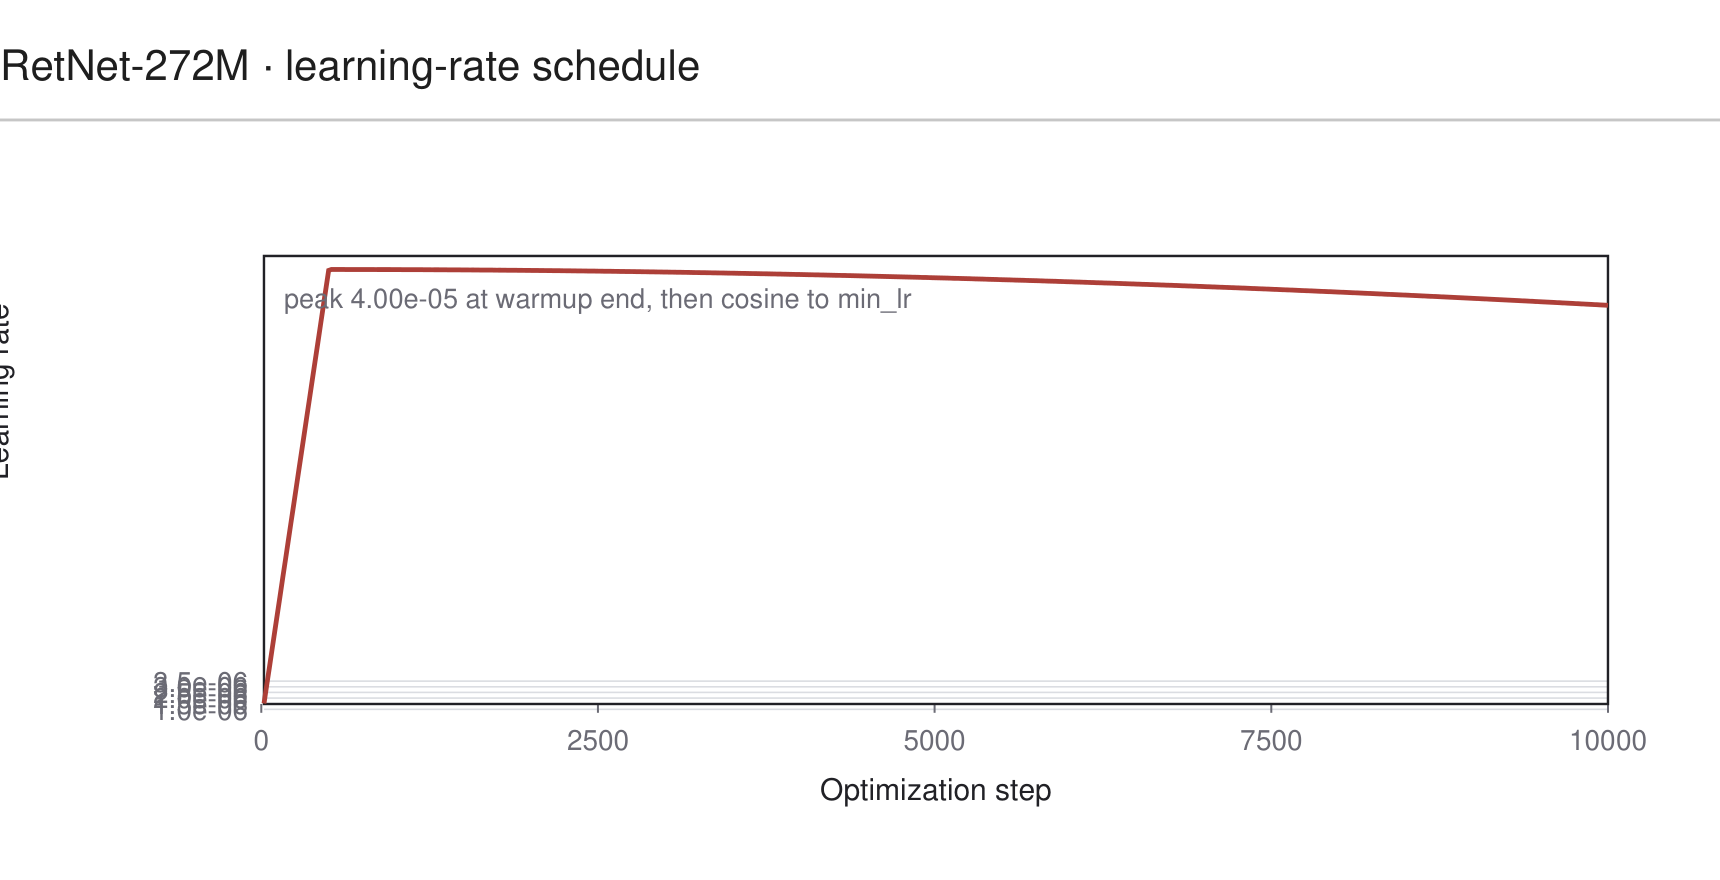
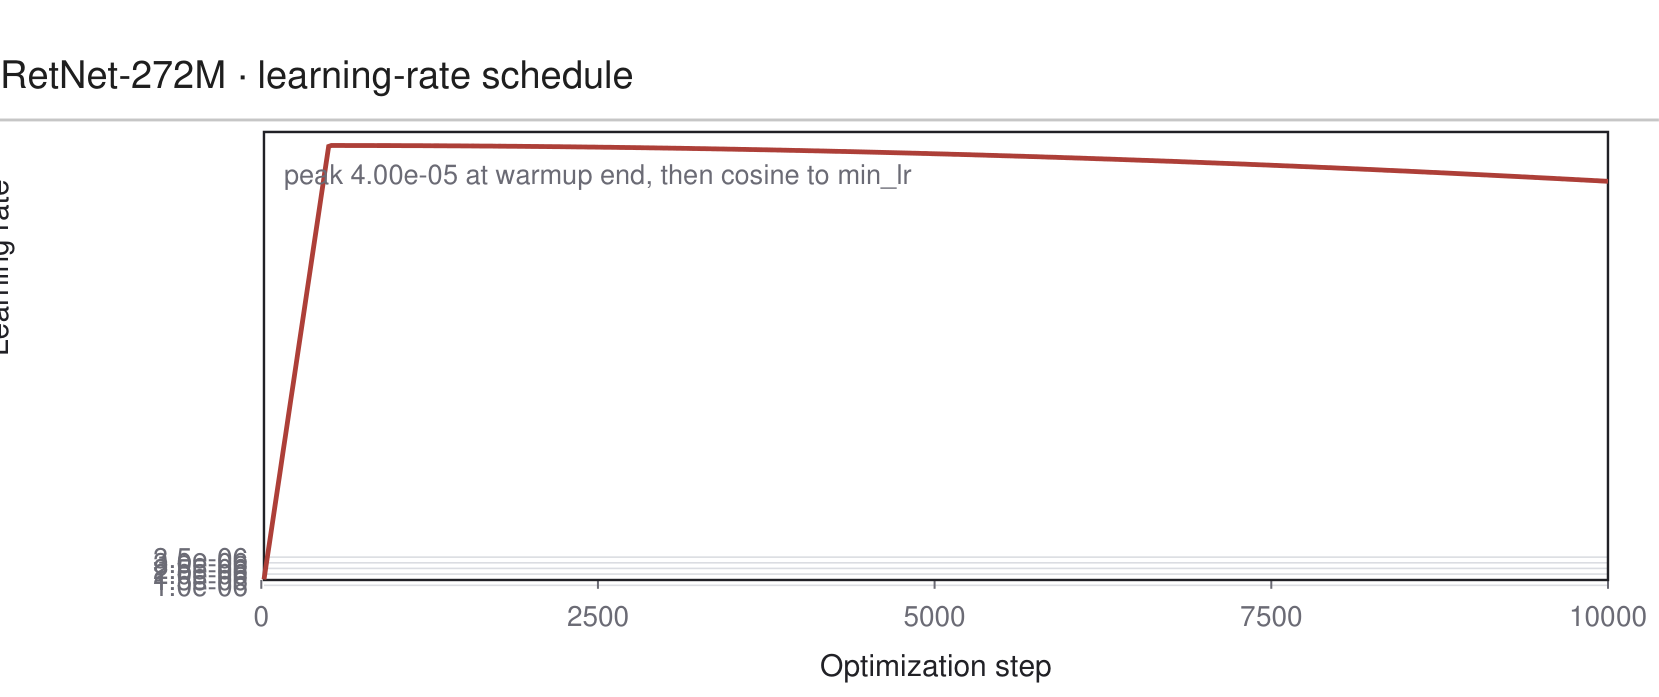
Tighten the figure title bands and add a plain-chat screenshot
The title band was sitting above the figure's own margins, leaving a wide dead
strip. export_figures.py now crops each figure to its real content bbox before
adding the band, so the title sits directly on top of the plot: fig-0p5b-loss
went from 430x312 to 383x244 pt.

figures/shots/cv-chat-h.png adds a three-turn conversation with no persona,
the plain-chat case the benchmark rates lowest. figures/README.md records which
candidates were discarded and why.

diff --git a/scripts/export_figures.py b/scripts/export_figures.py
@@ -39,16 +39,36 @@ LEGS = [
 ]
 
 
+def content_bbox(page, margin=3.0):
+    """图里真实内容的边界（文字块 + 绘制路径），用来裁掉原有白边。"""
+    rects = []
+    for b in page.get_text('blocks'):
+        rects.append(fitz.Rect(b[:4]))
+    for d in page.get_drawings():
+        rects.append(fitz.Rect(d['rect']))
+    if not rects:
+        return page.rect
+    r = rects[0]
+    for q in rects[1:]:
+        r |= q
+    r.x0 -= margin
+    r.y0 -= margin
+    r.x1 += margin
+    r.y1 += margin
+    return r & page.rect
+
+
 def titled(src_pdf, dst_pdf, title):
-    """在原图上方加一条标题带；内容仍为矢量（show_pdf_page 不栅格化）。"""
+    """裁掉原图白边、在上方加一条紧凑标题带；内容仍为矢量。"""
     src = fitz.open(src_pdf)
-    w, h = src[0].rect.width, src[0].rect.height
+    clip = content_bbox(src[0])
+    w, h = clip.width, clip.height
     out = fitz.open()
     page = out.new_page(width=w, height=h + BAND)
-    page.show_pdf_page(fitz.Rect(0, BAND, w, h + BAND), src, 0)
+    page.show_pdf_page(fitz.Rect(0, BAND, w, h + BAND), src, 0, clip=clip)
     page.draw_line(fitz.Point(0, BAND), fitz.Point(w, BAND),
                    color=(0.78, 0.78, 0.78), width=0.7)
-    page.insert_text(fitz.Point(0, BAND - 10), title, fontsize=10.5,
+    page.insert_text(fitz.Point(0, BAND - 8), title, fontsize=9.5,
                      fontname='helv', color=(0.12, 0.12, 0.12))
     out.save(dst_pdf)
     out.close()

diff --git a/figures/README.md b/figures/README.md
@@ -22,18 +22,21 @@ cropped to the application, not to the screen.
 | --- | --- |
 | `shots/cv-roleplay-zhongli` | Persona: Zhongli (*Genshin Impact*). "钟离先生，给我讲讲璃月的故事吧。" — 114 tokens, closes on its own |
 | `shots/cv-roleplay-luxun` | Persona: Lu Xun. "先生，青年应当如何读书？" — 63 tokens, closes on its own |
+| `shots/cv-chat-h` | No persona, three turns: "你好呀" / "你平时都做些什么？" / "听起来挺有意思的" — all three coherent and on-topic |
 
 These were generated at temperature 0.6 with `repetition_penalty` 1.1 and `no_repeat_ngram_size` 4 —
 the decoding settings shown in each screenshot's hyper-parameter line. Generation is sampled, so a
 different run of the same prompt gives a different reply. Captures were discarded and regenerated
-when the reply (a) left its `<think>` block unclosed — the UI flags that with a warning banner,
-(b) came back shorter than 40 tokens, which reads as truncated, or (c) contradicted the prompt (one
-Doraemon run answered "能让我考砸道具的" to a question about doing *well* on an exam).
+when a reply (a) left its `<think>` block unclosed — the UI flags that with a warning banner,
+(b) came back shorter than the threshold, which reads as truncated, or (c) contradicted the prompt.
+The Doraemon prompt alone produced "能让我考砸道具的" in reply to a question about doing *well* on an
+exam, and one three-turn plain-chat attempt answered "不，我会说中文" to "那你会说中文吗？".
 
-The failure rate is not uniform. Prompts that ask the model to reason leak their `<think>` block
-most of the time — a machine-learning question leaked in 6 runs out of 6, at both 0.5 and 0.6 — while
-role-play prompts answered in character did not (6 out of 6 clean). That asymmetry is what the
-benchmark reports too: role-play and multi-turn score highest, reasoning and coding sit at zero.
+The failure rate tracks the benchmark rather than the prompt's difficulty. Plain chat without a
+persona is where this model is weakest — of four three-turn sets, one produced a clean, on-topic
+conversation, and two others survived the leak check but answered off-topic anyway. Persona prompts
+answered in character were clean 6 runs out of 6. The benchmark says the same thing: role-play 0.200,
+multi-turn 0.267, against language 0.011 and instruction-following 0.013.
 
 ## The 0.5B model
 
